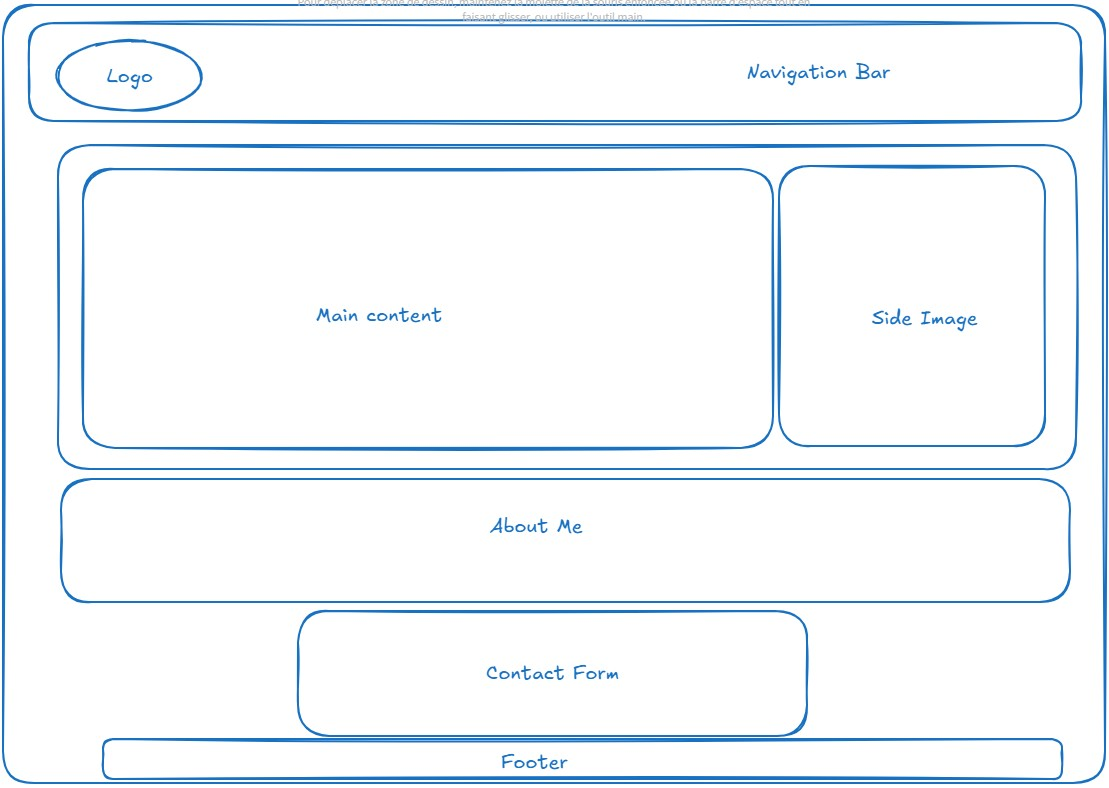
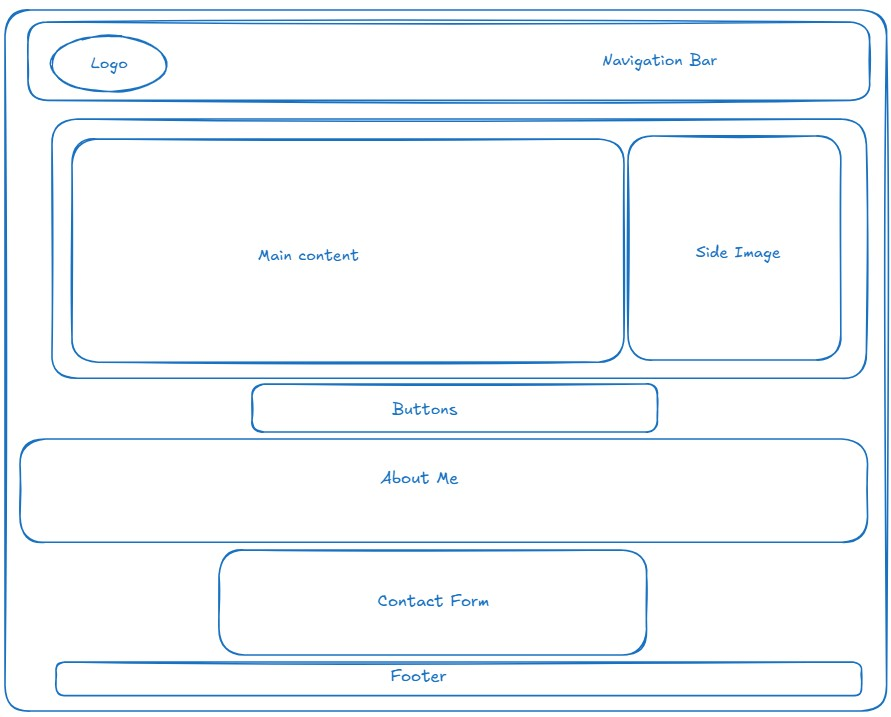
Edited backlog, strategy and design md files

diff --git a/planning/backlog.md b/planning/backlog.md
@@ -13,6 +13,8 @@ A user who wants to build a website about his personal portfolio!
 - As a user, I need a `main content` overview so I can see the content
   available.
 - As a user, I need a `side image section` so I can find my personal photo.
+- As a user, I need a `button section` so I can find information by clicking
+  buttons.
 - As a user, I need useful `languages section` so user can see how many
   languages I can communicate.
 - As a user, I need useful `about me` so user can see information about me.

diff --git a/planning/development-strategy.md b/planning/development-strategy.md
@@ -106,6 +106,20 @@ This feature develop on a branch `side-image`
 - Add style to `p`
 - Add style to `container`
 
+### Buttons
+
+This feature develop on a branch `buttons-click`
+
+#### HTML
+
+- Add `section` tag
+- Add two `div` into `section` tag
+
+#### CSS
+
+- Add style to `btn` and `flex`
+- Add two styles `btn-callme` and `btn-mycv` to `btn`
+
 ### Languages
 
 This feature develop on a branch `languages-known`

diff --git a/planning/design.md b/planning/design.md
@@ -4,6 +4,6 @@
 
 ### Wireframe
 
-<https://excalidraw.com/#json=FlxXUlpofo6YoqZS4tK1K,bHNhjP4LB0UlRgF8sL1vlA>
+<https://excalidraw.com/#json=J1u0iHgZsPr0t_PFOkgnG,HZfJ8YyX_x4pE8ejWlFNdg>
 
-![website-design](/public/images/design.jpg)
+![website-design](../public/images/design.jpg)
